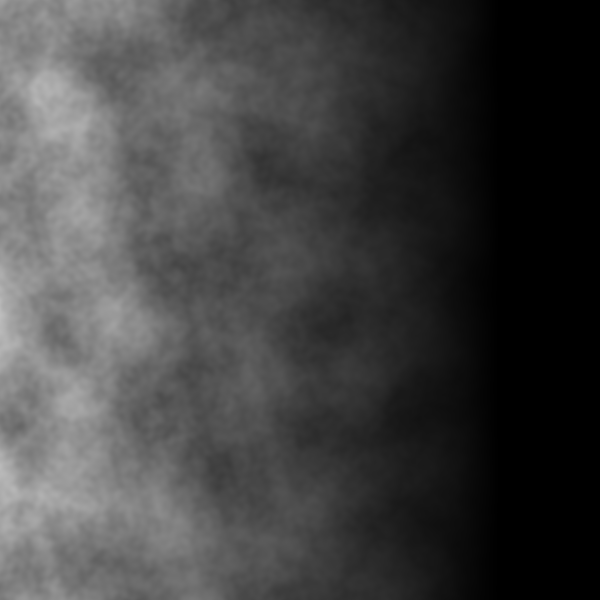
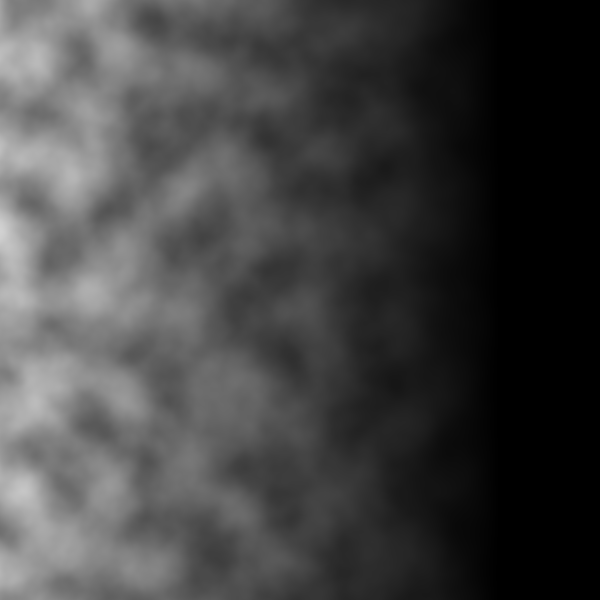
practically perfect!

diff --git a/lib/worker_scripts/shorelineTerrain.js b/lib/worker_scripts/shorelineTerrain.js
@@ -3,13 +3,13 @@ var Terrain = require('./../Terrain');
 var path = require('path');
 var SimplexNoise = require('simplex-noise');
 
-var K1 = 4;
+var K1 = 6;
 var K2 = 16;
 var K3 = 40;
 
-var R1 = 30;
+var R1 = 50;
 var R2 = 10;
-var R3 = 5;
+var R3 = 2;
 var DIV = (R1 + R2 + R3);
 var MOUNTAIN_HEIGHT = 100;
 
